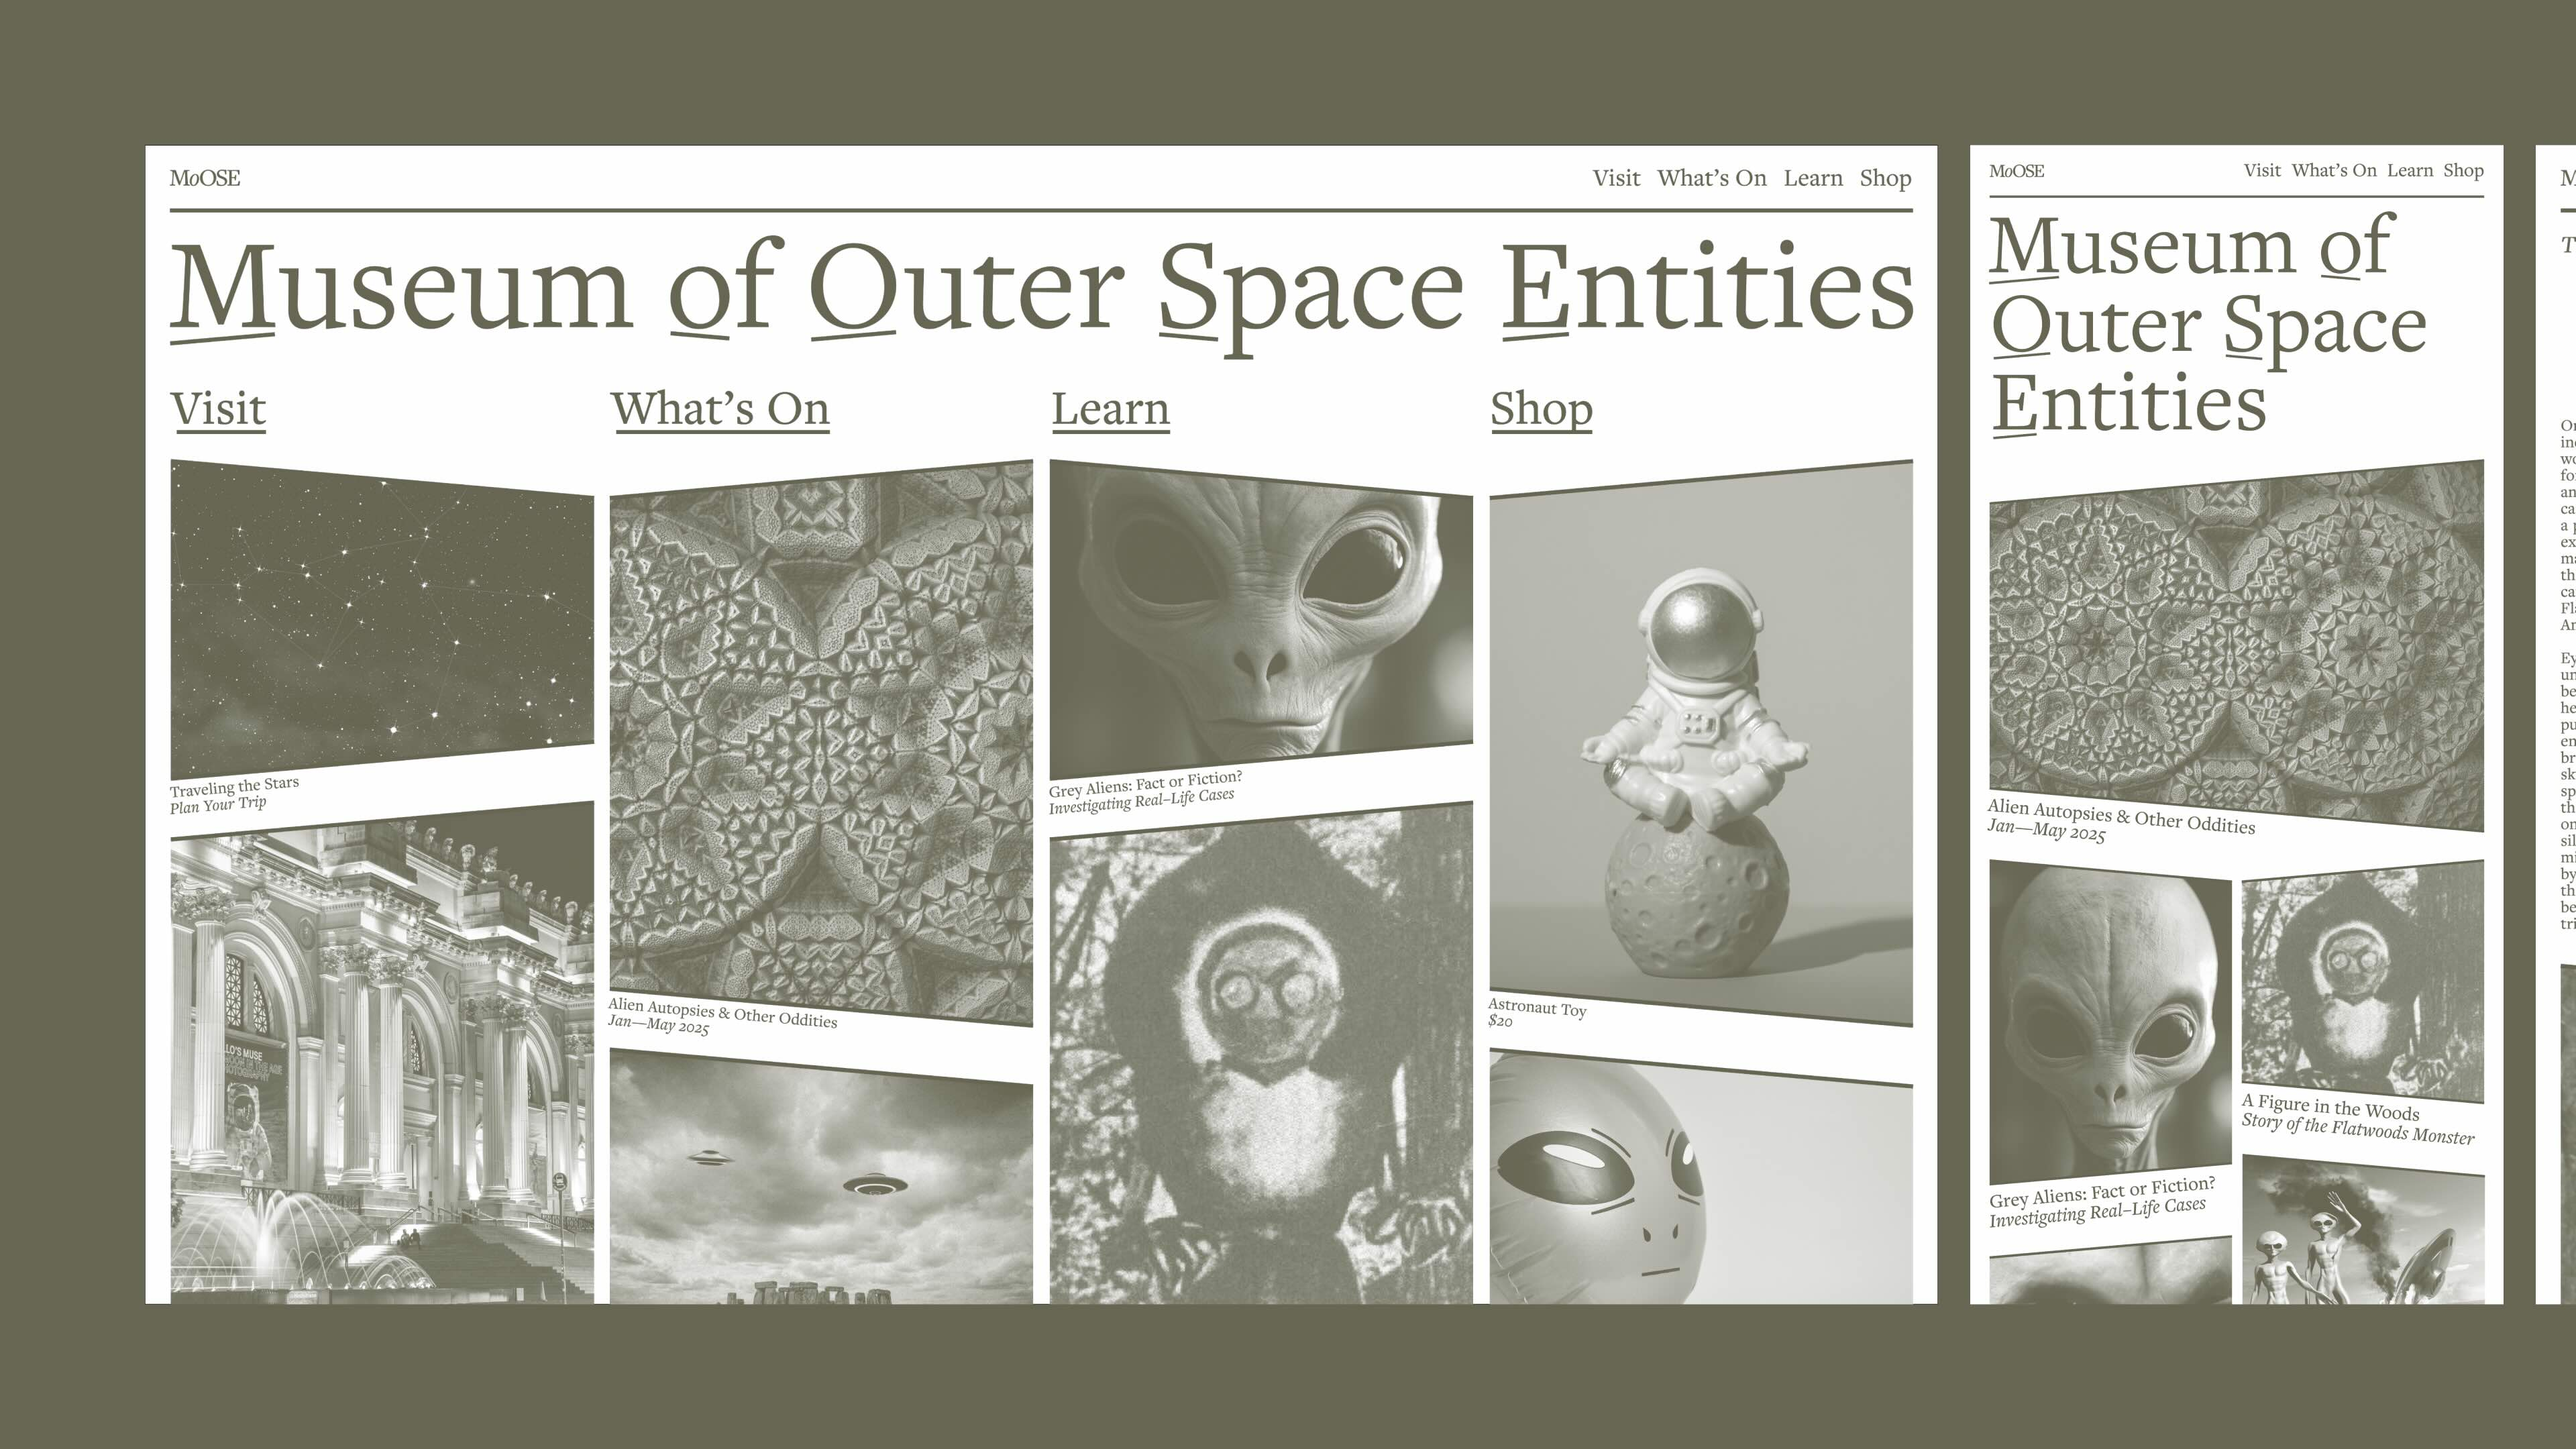
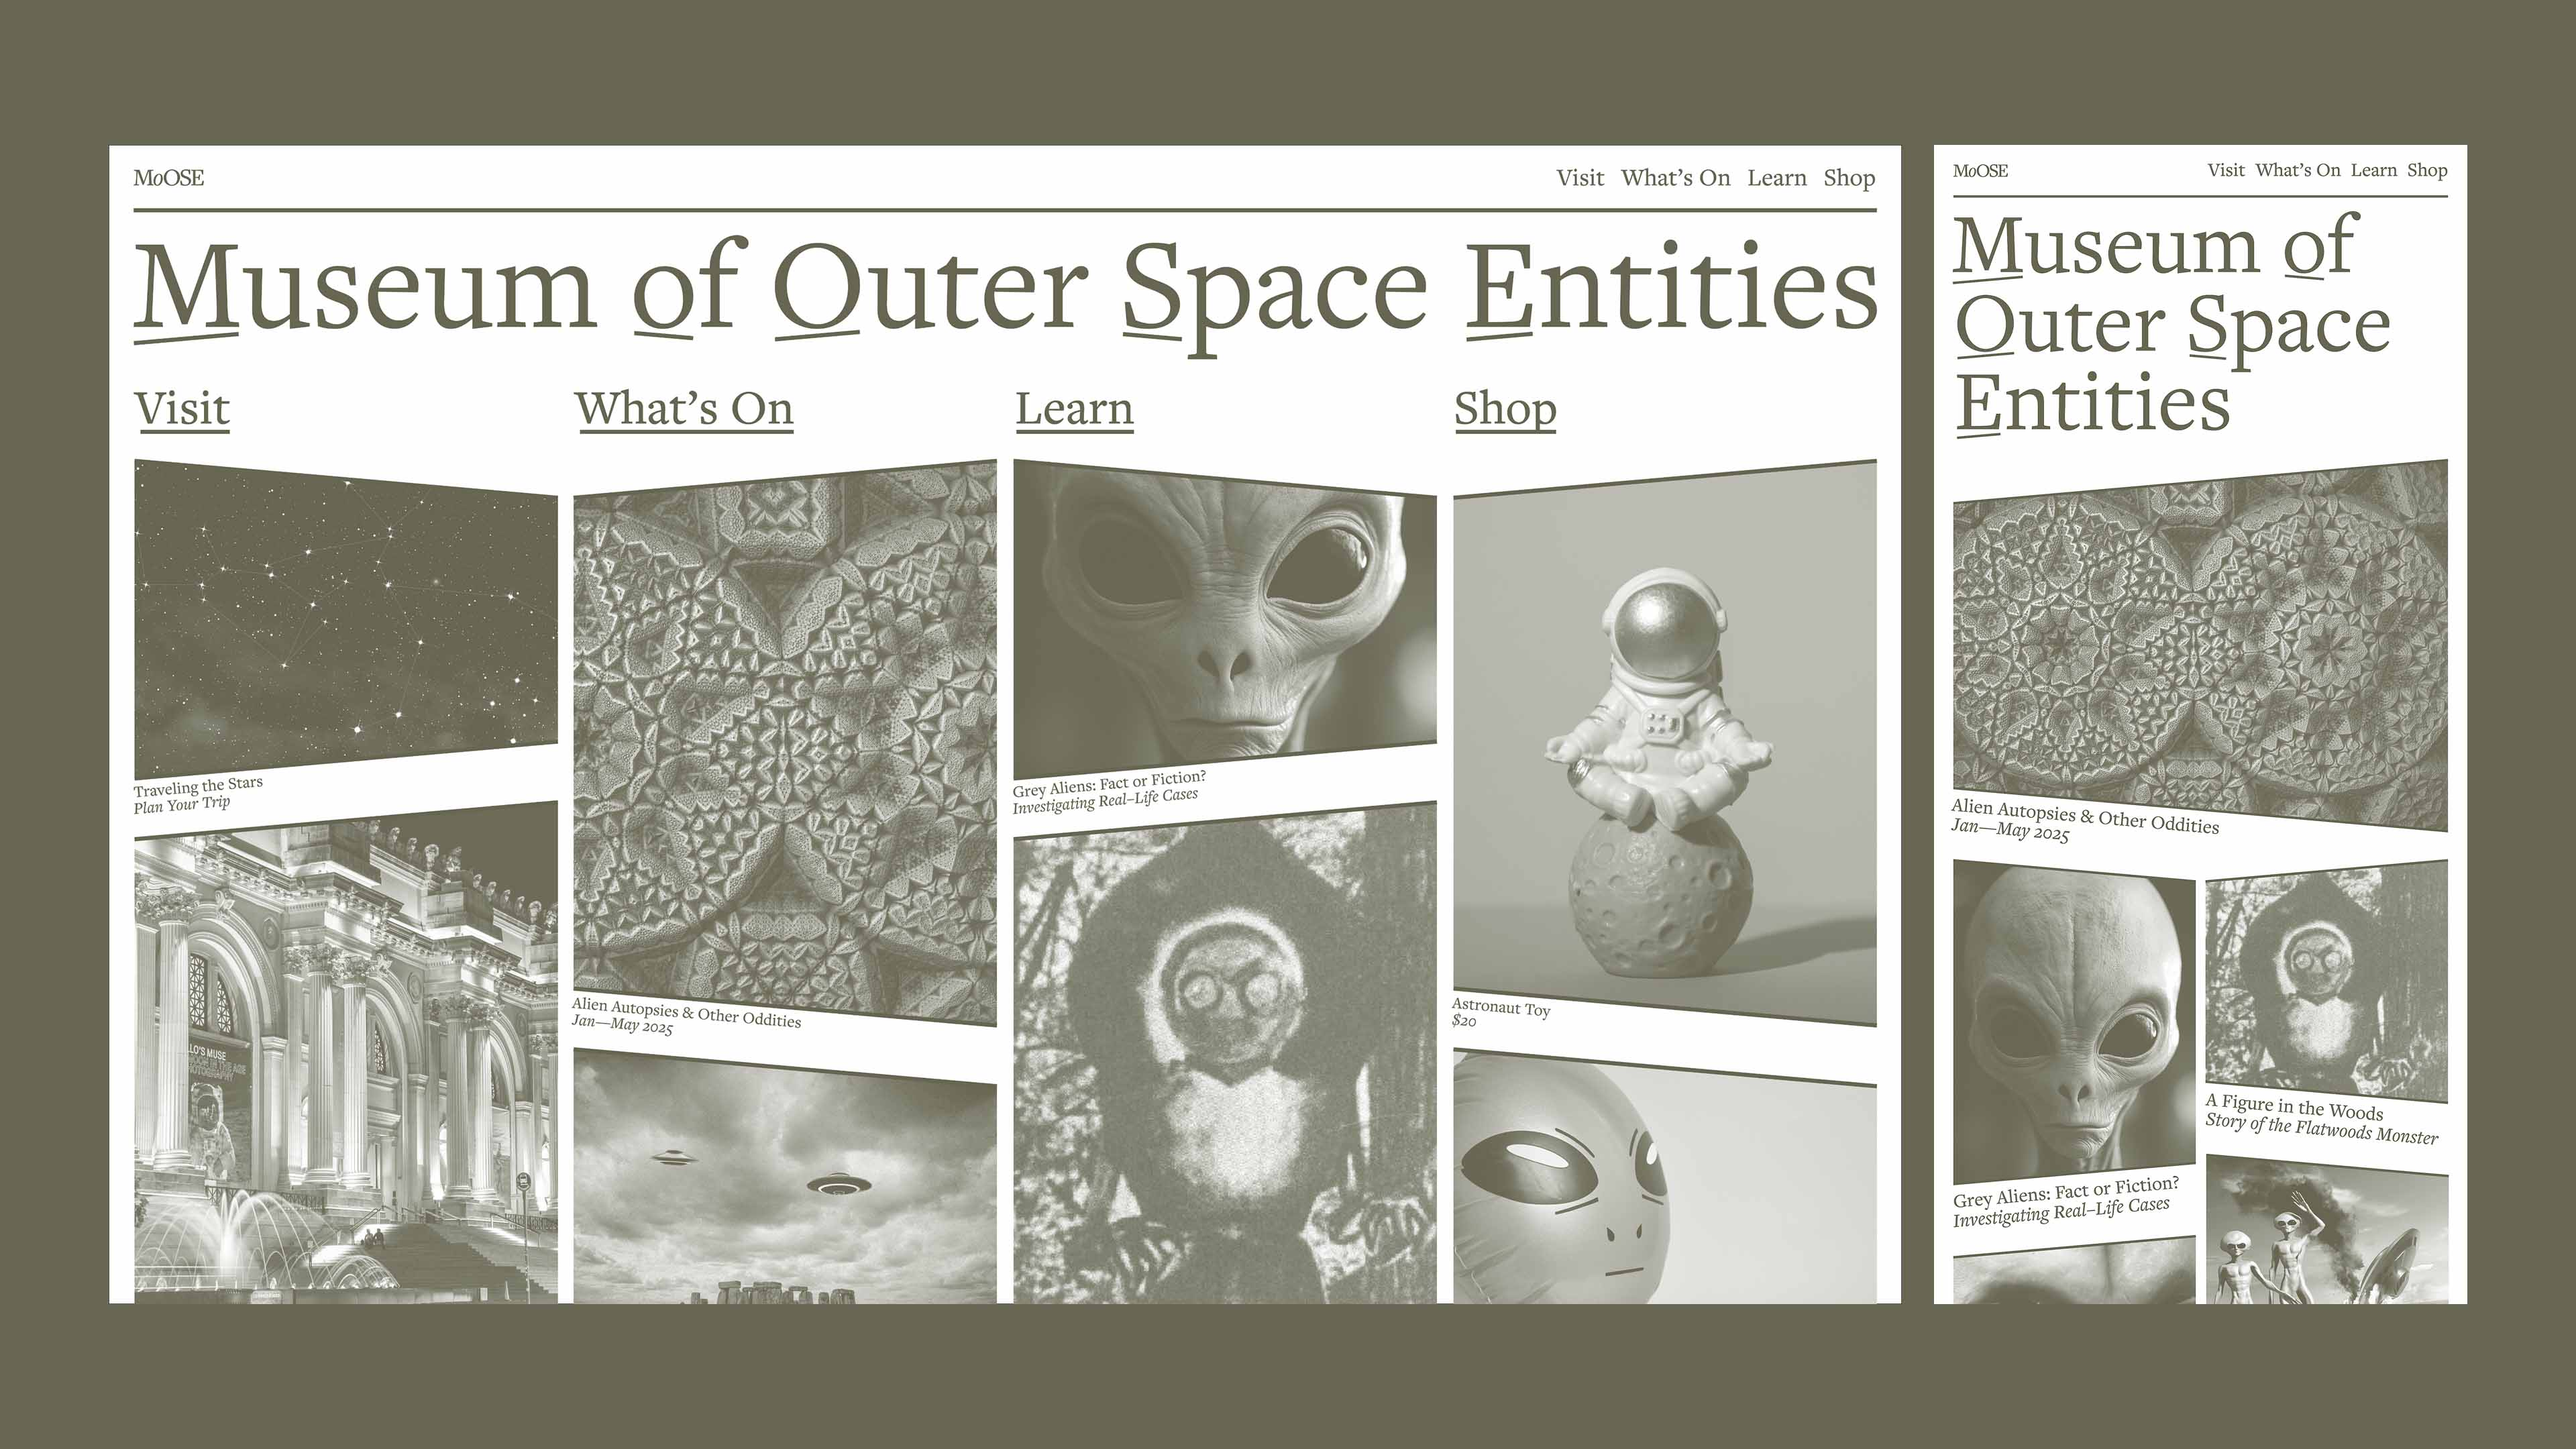
revamp in progress

diff --git a/index.html b/index.html
@@ -16,42 +16,24 @@
   <link rel="stylesheet" href="styles/fonts.css">
   <link rel="stylesheet" href="styles/typography.css">
 
-  <link rel="stylesheet" href="styles/components/nav.css">
   <link rel="stylesheet" href="styles/pages/index.css">
 </head>
 
 <body>
   <nav>
-    <p>Jaden Kim is a MICA Graphic Design MFA student. His work focuses on experimental branding and typography, and he is a huge fan of the color green.</p>
-    <span><a href="mailto:jadenk198@gmail.com">Contact,</a> <a>Resume,</a> <a href="https://linkedin.com/in/jdnk">LinkedIn</a></span>
+    <a href="#projects"><h1>Jaden Kim</h1></a>
   </nav>
 
-  <main>
-    <a href="tickticktick.html">
-      <div>
-        <div class="project-cover">
-          <img id="ttt" src="./assets/images/tickticktick/ttt-15.jpg" alt="Peppermania 2024">
-        </div>
-        <div class="project-title">
-          <div>
-            <p>Tickticktick</p>
-            <p>01</p>
-          </div>
-          
-          <p>Branding, Motion</p>
-        </div>
-      </div>
-    </a>
-
+  <main id="projects">
     <a href="peppermania-2024.html">
       <div>
         <div class="project-cover">
-          <img id="pm" src="./assets/images/peppermania-2024/pm-1c.jpg" alt="Peppermania 2024">
+          <img id="pm" src="./assets/images/peppermania-2024/pm-thumb.jpg" alt="Peppermania 2024">
         </div>
         <div class="project-title">
           <div>
             <p>Peppermania 2024</p>
-            <p>02</p>
+            <p>01</p>
           </div>
 
           <p>Branding, Publication</p>
@@ -59,10 +41,26 @@
       </div>
     </a>
 
+    <a href="tickticktick.html">
+      <div>
+        <div class="project-cover">
+          <img id="ttt" src="./assets/images/tickticktick/ttt-thumb.jpg" alt="Peppermania 2024">
+        </div>
+        <div class="project-title">
+          <div>
+            <p>Tickticktick</p>
+            <p>02</p>
+          </div>
+          
+          <p>Branding, Motion</p>
+        </div>
+      </div>
+    </a>
+
     <a href="moose.html">
       <div>
         <div class="project-cover">
-          <img id="moose" src="./assets/images/moose/moose-9.jpg" alt="MoOSE">
+          <img id="moose" src="./assets/images/moose/moose-thumb.jpg" alt="MoOSE">
         </div>
         <div class="project-title">
           <div>
@@ -75,6 +73,21 @@
       </div>
     </a>
 
+    <a href="home-is-a-bonfire.html">
+      <div>
+        <div class="project-cover">
+          <img id="home" src="./assets/images/home-is-a-bonfire/home-thumb-2.jpg" alt="Peppermania 2024">
+        </div>
+        <div class="project-title">
+          <div>
+            <p>Home is a Bonfire</p>
+            <p>04</p>
+          </div>
+          <p>Poster Series</p>
+        </div>
+      </div>
+    </a>
+
     <a href="o-life.html">
       <div>
         <div class="project-cover">
@@ -83,31 +96,24 @@
         <div class="project-title">
           <div>
             <p>O(Life)</p>
-            <p>04</p>
-          </div>
-
-          <p>Poster Series</p>
-        </div>
-      </div>
-    </a>
-
-    <a href="home-is-a-bonfire.html">
-      <div>
-        <div class="project-cover">
-          <img id="home" src="./assets/images/home-is-a-bonfire/home-7.jpg" alt="Peppermania 2024">
-        </div>
-        <div class="project-title">
-          <div>
-            <p>Home is a Bonfire</p>
             <p>05</p>
           </div>
-          <p>Poster Series</p>
+
+          <p>Poster Series, Data Visualization</p>
         </div>
       </div>
     </a>
+
+    <div class="intro">
+      <p class="bio">Jaden Kim is a MICA Graphic Design MFA student. His work focuses on experimental branding and typography, and he is a huge fan of the color green.</p>
+      <div class="links">
+        <a href="mailto:jadenk198@gmail.com">Contact</a>
+        <a>Resume</a>
+        <a href="https://linkedin.com/in/jdnk">LinkedIn</a>
+      </div>
+    </div>
   </main>
 
-  <script src="scripts/scroll.js"></script>
 </body>
 </html>
 

diff --git a/styles/pages/index.css b/styles/pages/index.css
@@ -1,3 +1,23 @@
+nav {
+    bottom: 0;
+    padding: var(--spacing-sm);
+    align-items: flex-start;
+    position: fixed;
+    z-index: 9999;
+    display: flex;
+    gap: var(--spacing-lg);
+}
+
+nav > p {
+    flex: 2;
+}
+
+nav > span {
+    position: relative;
+    top: -2px;
+    flex: 5;
+}
+
 main {
     padding: var(--spacing-sm);
     display: flex;
@@ -8,17 +28,33 @@ main {
     scroll-padding: var(--spacing-sm);
     scroll-behavior: smooth;
     -webkit-overflow-scrolling: touch;
+    /* scroll-snap-type: x mandatory; */
+
 }
 
-main > a {
+main > a, .intro {
     height: 100dvh;
     flex: 0 0 auto;
+    scroll-snap-align: start;
 }
 
 main > a > div {
     display: flex;
     flex-direction: column;
     gap: calc(var(--spacing-sm) / 2);
+}
+
+.intro {
+    display: flex;
+    gap: var(--spacing-lg);
+}
+
+.intro > .bio {
+    width: 25dvw;
+}
+
+.intro > .links {
+    width: 16.67dvw;
 }
 
 .project-title > div {
@@ -28,27 +64,45 @@ main > a > div {
 
 .project-cover > img {
     width: 100%;
+    max-height: calc(100dvh - (2 * var(--spacing-lg) + var(--spacing-sm)));
     border-radius: var(--border-radius);
     object-fit: cover;
 }
 
-main > a:nth-child(even) {
+main > a:nth-child(5n+1) {
+    width: 25dvw;
+}
+
+main > a:nth-child(5n+2) {
     width: 33dvw;
 }
 
-main > a:nth-child(odd) {
+main > a:nth-child(5n+3) {
+    width: 33dvw;
+}
+
+main > a:nth-child(5n+4) {
     width: 25dvw;
+}
+
+main > a:nth-child(5n) {
+    width: 41.67dvw;
 }
 
 /* BREAKPOINTS */
 
 @media screen and (max-width: 1280px) {
-    main > a:nth-child(even) {
-        width: 50dvw;
+    
+    main > a:nth-child(3n+2) {
+        width: 41.67dvw;
+    }
+    
+    main > a:nth-child(3n) {
+        width: 25dvw;
     }
 
-    main > a:nth-child(odd) {
-        width: 33vw;
+    main > a:nth-child(3n+1) {
+        width: 33.33dvw;
     }
 }
 
@@ -64,6 +118,19 @@ main > a:nth-child(odd) {
     main > a {
         width: 100% !important;
         flex: 0 0 auto;
-        scroll-snap-align: start;
+    }
+
+    .intro > .bio {
+        width: calc(66.67% - var(--spacing-lg));
+    }
+
+    .bio > .links {
+        width: 33.33%;
+    }
+}
+
+@media screen and (max-width: 480px) {
+    .intro {
+        width: 100%;
     }
 }

diff --git a/moose.html b/moose.html
@@ -63,14 +63,12 @@
         <button class="carousel-btn next" onclick="nextSlide()">&#10095;</button>
       </div>
 
-      <div class="carousel">
-        <button class="carousel-btn prev" onclick="prevSlide()">&#10094;</button>
-        <div class="carousel-images">
-          <img class="clickable-image" src="./assets/images/moose/moose-1.jpg" alt="MoOSE, Image 1">
-          <img class="clickable-image" src="./assets/images/moose/moose-2.jpg" alt="MoOSE, Image 2">
-        </div>
-        <button class="carousel-btn next" onclick="nextSlide()">&#10095;</button>
-      </div>
+      <iframe 
+        src="https://player.vimeo.com/video/1064191609?autoplay=1&loop=1&muted=1&background=1&playsinline=1"
+        frameborder="0"
+        allow="autoplay; fullscreen" 
+        allowfullscreen
+      ></iframe>
 
       <img class="clickable-image" src="./assets/images/moose/moose-7.jpg" alt="MoOSE, Image 7">
       <img class="clickable-image" src="./assets/images/moose/moose-6.jpg" alt="MoOSE, Image 6">

diff --git a/o-life.html b/o-life.html
@@ -35,8 +35,8 @@
           <p>O(Life)</p>
           <a href="index.html">Back</a>
         </div>
-        <p>Branding, Website</p>
-        <p>MoOSE, the Museum of Outer Space Entities, is a fictional museum on extraterrestrial life whose identity is shaped by the subtle tilt of a UFO, reflecting its off-kilter and mysterious nature.</p>
+        <p>Poster Series, Data Visualization</p>
+        <p>O(Life) is an experimental data visualization poster series that uses Big–O notation—normally used to describe algorithm efficiency—to map the growth and frequency of five key aspects of my life. Each poster visualizes a life category through gradients and rings that represent how these experiences have evolved over time, based on their assigned functions.</p>
         <h4>
           March 2025
           <br>

diff --git a/styles/components/lightbox.css b/styles/components/lightbox.css
@@ -64,12 +64,11 @@
 }
 
 .prev-lightbox {
-    left: var(--spacing-sm);
+    left: calc(var(--spacing-md) + var(--spacing-sm));
 }
 
 .next-lightbox {
-    right: var(--spacing-sm);
-}
+    right: var(--spacing-sm);right: calc(var(--spacing-md) + var(--spacing-sm));
 
 /* BREAKPOINTS */
 
@@ -78,13 +77,7 @@
 }
 
 @media screen and (max-width: 768px) {
-    .prev-lightbox {
-        left: calc(var(--spacing-md) + var(--spacing-sm));
-    }
-    
-    .next-lightbox {
-        right: calc(var(--spacing-md) + var(--spacing-sm));
-    }
+
 }
 
 @media screen and (max-width: 480px) {

diff --git a/styles/global.css b/styles/global.css
@@ -10,7 +10,7 @@
 
   --fontsize-sm: 9px;
   --fontsize-md: 14px;
-  --fontsize-lg: 51px;
+  --fontsize-lg: 31px;
 
   --lineheight-sm: 1.3;
   --lineheight-md: 1.1;
@@ -54,11 +54,7 @@ main {
 
 /* BREAKPOINTS */
 @media screen and (max-width: 768px) {
-  :root {
-    --fontsize-lg: 34px;
-    --spacing-lg: 48px;
-    --spacing-md: 24px;
-  }
+
 }
 
 @media screen and (max-width: 480px) {

diff --git a/styles/pages/project.css b/styles/pages/project.css
@@ -21,8 +21,8 @@ body {
     justify-content: space-between;
 }
 
-#nav-logo {
-  max-height: fit-content;
+nav {
+  pointer-events: none;
 }
 
 .project-title {
@@ -92,7 +92,7 @@ iframe {
   }
 
   .project-title {
-    width: 67%;
+    width: 75%;
   }
 
   .right-column {
